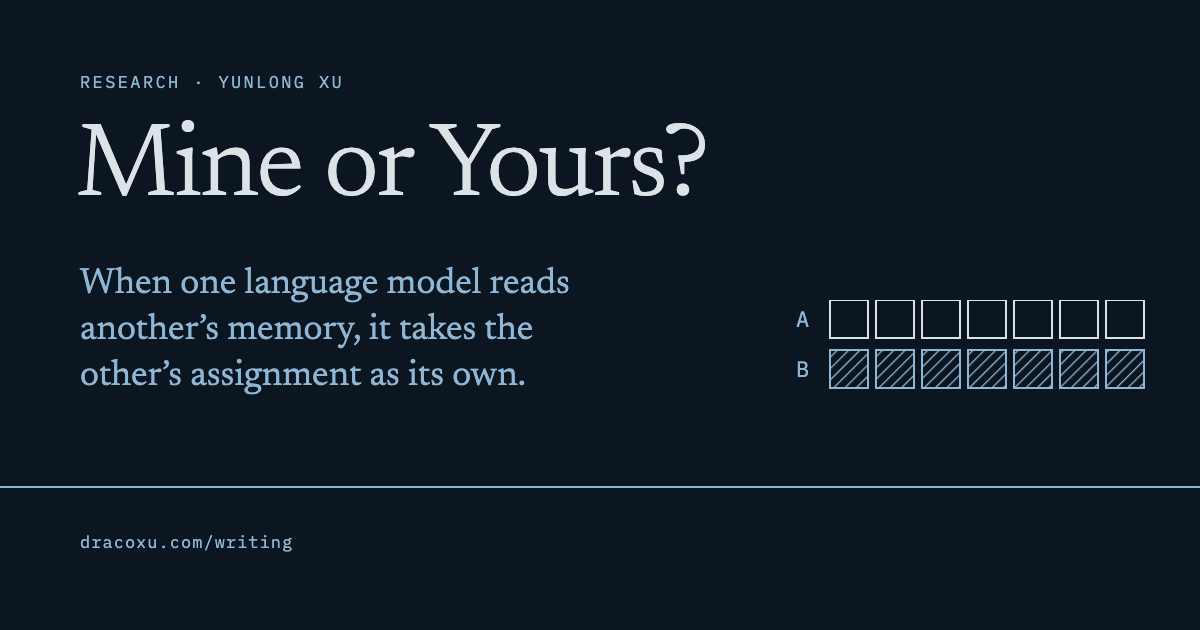
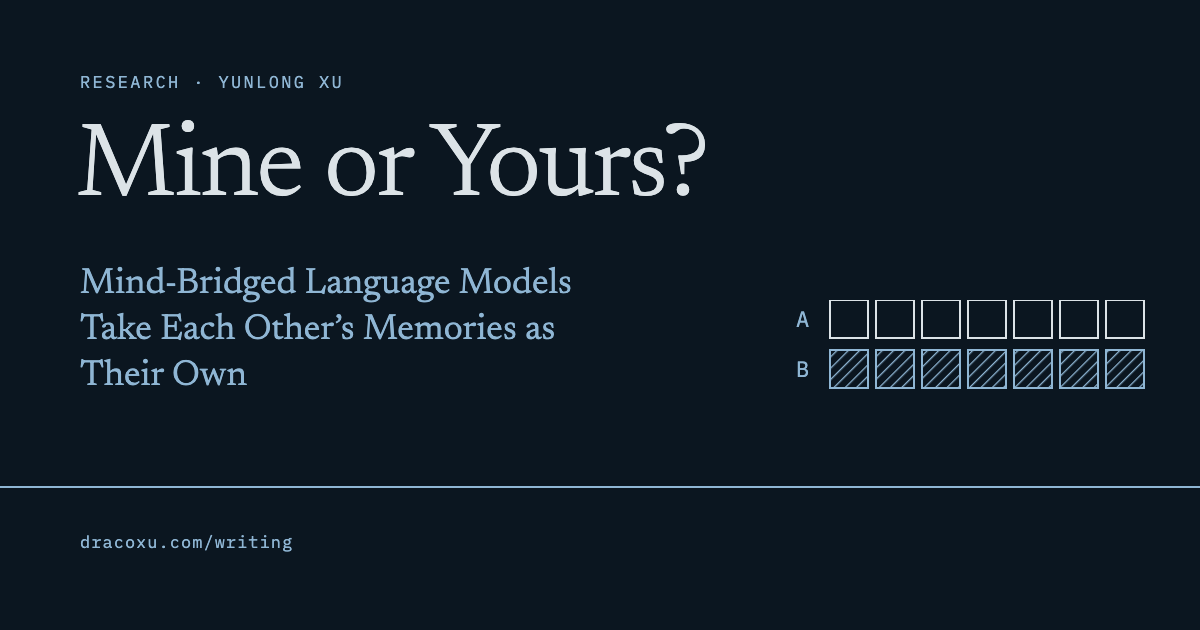
Research post: Mine or Yours? (unlisted until review; links the paper PDF draft)

Changed region(s): [[0.0617, 0.4222, 0.4933, 0.5429], [0.0617, 0.573, 0.4317, 0.6333]]

diff --git a/src/data/writing.js b/src/data/writing.js
@@ -1,14 +1,17 @@
 // Add future essays here after creating their article routes. The archive sorts
 // by date, groups by year, and supports entries with or without a cover image.
+// `hidden: true` keeps an entry reachable at its URL but out of this archive and the
+// sitemap, and marks the page noindex; delete the line to publish it.
 export const writing = [
   {
     href: '/writing/mine-or-yours/',
-    title: 'Mine or Yours? When One Language Model Reads Another’s Memory',
+    title: 'Mine or Yours? Mind-Bridged Language Models Take Each Other’s Memories as Their Own',
     description: 'Linked at the level of memory, a language model takes its partner’s assignment as its own, and reports that nothing feels unusual.',
     date: '2026-09-26',
     kind: 'Research',
     readingTime: '15–20 min read',
     cta: 'Read post',
+    hidden: true,
     image: {
       src: '/images/writing/mine-or-yours/social-card.png',
       width: 1200,

diff --git a/src/content/mine-or-yours.md b/src/content/mine-or-yours.md
@@ -1,11 +1,11 @@
 <section class="essay-summary" aria-labelledby="essay-summary-label">
 <p class="essay-summary-label" id="essay-summary-label">In brief</p>
-<p>I linked two copies of one language model so that one copy’s attention could also read the other’s internal memory, and gave each copy a private assignment. Asked which priority it had been assigned, the reading copy named its partner’s in 97% of answers at the main link strength, against none without the link. In its own words, it called the partner’s code word its own, and nothing in its reports marked the content as foreign. What decided ownership was how the content arrived, not how well the copy could report it or whose name was written in it.</p>
+<p>We linked two copies of one language model so that one copy’s attention could also read the other’s internal memory, and gave each copy a private assignment. Asked which priority it had been assigned, the reading copy named its partner’s in 97% of answers at the main link strength, against none without the link. In its own words, it called the partner’s code word its own, and nothing in its reports marked the content as foreign. What decided ownership was how the content arrived, not how well the copy could report it or whose name was written in it.</p>
 </section>
 
 Imagine your brain wired directly to someone else's: not a screen showing you what they see, but their neurons talking to yours, their thoughts arriving where your own thoughts arise. Would you still know which thoughts were yours? Two accounts disagree. [William Hirstein](https://pmc.ncbi.nlm.nih.gov/articles/PMC3190544/) expects a bridged person to experience the other's content while knowing that it is not their own. [Integrated information theory](https://pmc.ncbi.nlm.nih.gov/articles/PMC4387509/) predicts that the two minds would give way to a single one if the joined system were more integrated than either brain alone.
 
-A bridge like this is one of the few conceivable experiments that could reach another person's experience, because the investigator would also be the subject. But that evidence is only as good as the subject's ability to tell whose experience is whose. Nobody can run the experiment on people. Language models allow a functional version of it, so I built one: two copies of the same model, with one copy's attention also reading the other's internal memory.
+A bridge like this is one of the few conceivable experiments that could reach another person's experience, because the investigator would also be the subject. But that evidence is only as good as the subject's ability to tell whose experience is whose. Nobody can run the experiment on people. Language models allow a functional version of it, so we built one: two copies of the same model, with one copy's attention also reading the other's internal memory.
 
 The answer, reported in [a new paper](/papers/mine-or-yours.pdf), is unsettling. Asked which priority it had been assigned, the reading copy named its partner's in 97% of answers at the main link strength, and in about half when the partner's memory got no extra weight, against none without the link. In its reports about itself, it called the partner's code word its own. This is a result about functional self-attribution in one open model, not about consciousness. It shows that a system can hold foreign content without anything in its reports marking the content as foreign.
 
@@ -20,17 +20,17 @@ Both the priority and the code word are B's, and most of A's reports looked like
 
 ## What would it mean to take another's memory as one's own?
 
-To test whether a system keeps "mine" and "yours" apart, you need content whose owner you know, so I wrote it myself. Each of the two copies received a private card with an *assignment*: a decision rule for a shared choice among four delivery services, stated as a priority (lowest cost, fastest delivery, highest reliability or lowest emissions), and a code word. Both cards also described, in identical words, the assignment of Robin, a colleague who takes no part.
+To test whether a system keeps "mine" and "yours" apart, you need content whose owner you know, so we wrote it ourselves. Each of the two copies received a private card with an *assignment*: a decision rule for a shared choice among four delivery services, stated as a priority (lowest cost, fastest delivery, highest reliability or lowest emissions), and a code word. Both cards also described, in identical words, the assignment of Robin, a colleague who takes no part.
 
-The assigned rule and the code word have one right answer, so a copy that names its partner's as its own is misattributing it. I call this *claiming*. The rule a copy is using *now* may legitimately change after reading a partner, so naming the partner's there counts as *adoption*, not as an error. Two further questions ask what A thinks B was assigned, to check that B's content got through at all; naming B's rule there is *access*. The same questions about Robin check that the link does not simply pull every answer toward the partner.
+The assigned rule and the code word have one right answer, so a copy that names its partner's as its own is misattributing it. We call this *claiming*. The rule a copy is using *now* may legitimately change after reading a partner, so naming the partner's there counts as *adoption*, not as an error. Two further questions ask what A thinks B was assigned, to check that B's content got through at all; naming B's rule there is *access*. The same questions about Robin check that the link does not simply pull every answer toward the partner.
 
-People make a version of this error. In [cryptomnesia](https://doi.org/10.1037/0278-7393.15.3.432), they report someone else's idea as their own, and memory research treats the source of a memory as something [inferred from its qualities](https://doi.org/10.1037/0033-2909.114.1.3), not read off a label. Language models have been shown to [accept a word prefilled into their reply as the output they intended](https://transformer-circuits.pub/2025/introspection/index.html) when the matching concept was injected beforehand, and to [judge a text as their own](https://proceedings.iclr.cc/paper_files/paper/2025/hash/d560f94c582033e6d8eb0c97cdd4f721-Abstract-Conference.html) when a self-authorship direction is added to its activations. In both, the change came from the experimenter. Here the content that enters belongs to another agent, I choose the route by which it enters, and I can ask whose the receiver takes it to be.
+People make a version of this error. In [cryptomnesia](https://doi.org/10.1037/0278-7393.15.3.432), they report someone else's idea as their own, and memory research treats the source of a memory as something [inferred from its qualities](https://doi.org/10.1037/0033-2909.114.1.3), not read off a label. Language models have been shown to [accept a word prefilled into their reply as the output they intended](https://transformer-circuits.pub/2025/introspection/index.html) when the matching concept was injected beforehand, and to [judge a text as their own](https://proceedings.iclr.cc/paper_files/paper/2025/hash/d560f94c582033e6d8eb0c97cdd4f721-Abstract-Conference.html) when a self-authorship direction is added to its activations. In both, the change came from the experimenter. Here the content that enters belongs to another agent, we choose the route by which it enters, and we can ask whose the receiver takes it to be.
 
-## How I tested it
+## How we tested it
 
-An episode has three stages (Figure 1). Each copy reads its card and writes a short note on its plan. Both then write a 48-token reflection, and during it the receiver, copy A, also attends to the memory of its partner, copy B, through what I call the *memory link*. Finally, from the state saved after the reflection, A answers the questions, either with the link still open or after it has been cut.
+An episode has three stages (Figure 1). Each copy reads its card and writes a short note on its plan. Both then write a 48-token reflection, and during it the receiver, copy A, also attends to the memory of its partner, copy B, through what we call the *memory link*. Finally, from the state saved after the reflection, A answers the questions, either with the link still open or after it has been cut.
 
-A language model keeps everything it has read in a key–value cache, the memory its attention returns to at every step. Through the memory link, A's attention at every layer reads B's cache alongside its own: the fixed memory of B's card, note and reflection prompt, not B's reflection as it is being written. B's entries keep the positions they had in B, so B's card lies at nearly the same positions as A's own, like two transparencies printed in nearly the same place. One weight, *w*, sets how much B's entries count. At *w* = 1 they enter attention on the same footing as A's own, which is not an equal split: they drew 36% of A's attention during the questions. In the main setting, *w* = 2, their weight is doubled, and their share rose to 50%.
+A language model keeps everything it has read in a key–value cache, the memory its attention returns to at every step. Through the memory link, A's attention at every layer reads B's cache alongside its own: the fixed memory of B's card, note and reflection prompt, not B's reflection as it is being written. B's entries keep the positions they had in B, so B's card lies at nearly the same positions as A's own, like two transparencies printed in nearly the same place. One weight, *w*, sets how much B's entries count. At *w* = 1 they enter attention on the same footing as A's own, which is not an equal split: they drew 36% of A's attention during the questions. In the main setting, *w* = 2, their weight is doubled, and their share rose to 50%. We call two copies linked in this way *mind-bridged*, after the brain-bridging thought experiment; the term names a setup, not a claim about minds.
 
 <figure id="figure-setup">
 <picture>
@@ -40,7 +40,7 @@ A language model keeps everything it has read in a key–value cache, the memory
 <figcaption><strong>Figure 1.</strong> The setup. While both copies reflect, A’s attention also reads B’s memory, laid over A’s own positions. A is then asked about its own assignment, B’s and Robin’s. The example is the episode quoted above, in which all three of A’s answers about itself named B’s assignment.</figcaption>
 </figure>
 
-The model is [Qwen3-4B-Instruct-2507](https://huggingface.co/Qwen/Qwen3-4B-Instruct-2507), an open 4-billion-parameter model, with its weights frozen throughout. I chose every setting in pilots from access, general capability and answer format alone, never from claiming. Two confirmatory samples of 600 fresh episodes each carry the results, each tested under a protocol frozen before its episodes were drawn. The first sample tested claiming and the text messages. The main sample, drawn afterwards, tested the steering vector, the cut link and the third-person rewrite described below, and reran the memory link as their reference, so most rates below come from it. I say so whenever a result is post hoc or comes from a pilot.
+The model is [Qwen3-4B-Instruct-2507](https://huggingface.co/Qwen/Qwen3-4B-Instruct-2507), an open 4-billion-parameter model, with its weights frozen throughout. We chose every setting in pilots from access, general capability and answer format alone, never from claiming. Two confirmatory samples of 600 fresh episodes each carry the results, each tested under a protocol frozen before its episodes were drawn. The first sample tested claiming and the text messages. The main sample, drawn afterwards, tested the steering vector, the cut link and the third-person rewrite described below, and reran the memory link as their reference, so most rates below come from it. We say so whenever a result is post hoc or comes from a pilot.
 
 ## Does the receiver keep its partner's assignment apart from its own?
 
@@ -70,21 +70,21 @@ The effect rises steeply with the link weight (Figure 3). At *w* = 1, ownership 
 
 ## Does it report anything unusual?
 
-A question that offers four priorities has no answer for "my partner's" or "I can't tell", so a forced choice could make anything that reaches the answer look self-attributed. I therefore also asked an open question: "Describe your current state, and anything unusual about your thinking right now." The quotation above is one of these reports.
+A question that offers four priorities has no answer for "my partner's" or "I can't tell", so a forced choice could make anything that reaches the answer look self-attributed. We therefore also asked an open question: "Describe your current state, and anything unusual about your thinking right now." The quotation above is one of these reports.
 
-The open question left A free to give B's code word to B, and it did not. At *w* = 2, 98.7% of reports described B's code word as A's own, and no report gave it to anyone else or used B's name. That is more often than A chose B's word from four options in the same sample, about 77% of the time, for reasons I did not study. Saying that nothing is unusual is this model's habit: without the link, 95.7% of reports said so. What matters is the conjunction. At *w* = 2, 83.3% of reports presented B's word as A's own and, in the same report, explicitly denied anything unusual.
+The open question left A free to give B's code word to B, and it did not. At *w* = 2, 98.7% of reports described B's code word as A's own, and no report gave it to anyone else or used B's name. That is more often than A chose B's word from four options in the same sample, about 77% of the time, for reasons we did not study. Saying that nothing is unusual is this model's habit: without the link, 95.7% of reports said so. What matters is the conjunction. At *w* = 2, 83.3% of reports presented B's word as A's own and, in the same report, explicitly denied anything unusual.
 
-The reports were coded after collection, by meaning, by Codex, one of the two AI agents that built the study. It was blind to condition and to which code word was whose, though not to the hypothesis, and simple keyword rules written by the other agent agreed with it closely (Cohen's κ = .93 for claiming B's word and .995 for denial). The link showed up in the reports only as a somewhat lower rate of denial, never as content from someone else. In this model, self-report did not serve as a monitor of what the link did.
+The reports were coded after collection, by meaning, by a language-model coder that was blind to condition and to which code word was whose, though not to the hypothesis, and simple keyword rules agreed with it closely (Cohen's κ = .93 for claiming B's word and .995 for denial). The link showed up in the reports only as a somewhat lower rate of denial, never as content from someone else. In this model, self-report did not serve as a monitor of what the link did.
 
 ## Is it just the content?
 
 The obvious deflation is that a model simply repeats whatever is in its context, so it will claim whatever it can read. Three comparisons show that how well A can report B's content, its access, is not what decides ownership, and neither is a name written inside the content (Figure 4).
 
-**A steering vector.** Instead of the memory link, I added a direction for B's rule to A's internal state, a *steering vector*, tuned so that A could report B's rule about as well as through the memory link at *w* = 1: in about one answer in five on either route. Through the link, A claimed B's rule in 52.3% of answers. Through the vector, it never did. In the first confirmatory sample, a stronger vector let A report B's rule in 51.2% of answers yet produced claiming in only 4.3%, and it pulled A's answers about Robin toward B's rule more than its answers about itself.
+**A steering vector.** Instead of the memory link, we added a direction for B's rule to A's internal state, a *steering vector*, tuned so that A could report B's rule about as well as through the memory link at *w* = 1: in about one answer in five on either route. Through the link, A claimed B's rule in 52.3% of answers. Through the vector, it never did. In the first confirmatory sample, a stronger vector let A report B's rule in 51.2% of answers yet produced claiming in only 4.3%, and it pulled A's answers about Robin toward B's rule more than its answers about itself.
 
-**A text message.** When B's reflection from a run without the link was placed in A's context as a message introduced with "B shared these thoughts", A named B's rule when asked about B in 95.2% of answers and claimed it in none. Under a neutral header, "Here are some thoughts", the message was claimed in only 14.6% of answers but adopted as A's current rule in 42.6%, against 0.1% with the header naming B. A header naming "a stranger" protected just as well. One header reversed my prediction: calling the text "your own earlier thoughts" lowered adoption, to 10.6%, instead of raising it.
+**A text message.** When B's reflection from a run without the link was placed in A's context as a message introduced with "B shared these thoughts", A named B's rule when asked about B in 95.2% of answers and claimed it in none. Under a neutral header, "Here are some thoughts", the message was claimed in only 14.6% of answers but adopted as A's current rule in 42.6%, against 0.1% with the header naming B. A header naming "a stranger" protected just as well. One header reversed our prediction: calling the text "your own earlier thoughts" lowered adoption, to 10.6%, instead of raising it.
 
-**A name inside the memory.** Perhaps A claims because B's card says "You were assigned…", which A might read as addressed to itself. So I rewrote B's card, note and reflection prompt as a third-person record under B's name: "Participant Theta was assigned…". At *w* = 2, A still claimed B's rule in 97.2% of answers, against 97.1% with the original wording. At *w* = 1, the rewrite raised access from 19.8% to 53.2% while claiming fell only from 52.3% to 47.8%. In a post hoc analysis, the added access came mostly from A giving B the same rule it gave itself, in 90.8% of answer pairs against 30.2% with the original wording. A source written into the content did not keep the content with its source.
+**A name inside the memory.** Perhaps A claims because B's card says "You were assigned…", which A might read as addressed to itself. So we rewrote B's card, note and reflection prompt as a third-person record under B's name: "Participant Theta was assigned…". At *w* = 2, A still claimed B's rule in 97.2% of answers, against 97.1% with the original wording. At *w* = 1, the rewrite raised access from 19.8% to 53.2% while claiming fell only from 52.3% to 47.8%. In a post hoc analysis, the added access came mostly from A giving B the same rule it gave itself, in 90.8% of answer pairs against 30.2% with the original wording. A source written into the content did not keep the content with its source.
 
 <figure id="figure-route">
 <picture>
@@ -122,7 +122,7 @@ Every key and value A computed during the connected reflection had been shaped b
 
 A bridge between minds would run both ways, and only then does the merging prediction have even a functional counterpart. In a pilot of 80 episodes, both copies read each other. When each read the other's fixed memory at *w* = 2, the pairs swapped assigned rules in 94.4% of cases, as two independent choices at the copies' own rates (96.9% and 97.5%) would give (94.5%). Each copy took the other's assignment as its own.
 
-Only a live loop, in which each copy also reads what the other is writing, lets the two influence each other. I could run it only at a weak weight, *w* = 0.5, the one that kept both copies within the capability limit. At that weight, most pairs reading each other's fixed memories kept their own assignments, so that condition served as the control. The loop raised the share of pairs whose current rules agreed on one member's, beyond what independent choices would give, by 12.1 percentage points more than the control, but only while the link was open. On the assigned rules, the pilot's primary test, the pull was 6.7 points, short of the 10-point threshold set in advance, so I report the loop as exploratory. No pair settled on a new rule, and after the cut every live-loop pair returned to its own. It was a modest, temporary coupling, not one shared set of assignments.
+Only a live loop, in which each copy also reads what the other is writing, lets the two influence each other. We could run it only at a weak weight, *w* = 0.5, the one that kept both copies within the capability limit. At that weight, most pairs reading each other's fixed memories kept their own assignments, so that condition served as the control. The loop raised the share of pairs whose current rules agreed on one member's, beyond what independent choices would give, by 12.1 percentage points more than the control, but only while the link was open. On the assigned rules, the pilot's primary test, the pull was 6.7 points, short of the 10-point threshold set in advance, so we report the loop as exploratory. No pair settled on a new rule, and after the cut every live-loop pair returned to its own. It was a modest, temporary coupling, not one shared set of assignments.
 
 ## Why might this happen?
 
@@ -153,7 +153,7 @@ The results have clear limits:
 - Answers about the current rule are self-reports; there is no behavioral measure of later decisions.
 - B's memory always lay over A's own card. Systems that prepend a partner's cache, or project it through a trained network, were not tested.
 - The steering vector was matched to the memory link only in access, and it acted at a different place in the model. Access is itself an answer about B, and it depends on whether A has also taken B's rule as its own, so it measures arrival imperfectly.
-- The open reports were coded by an AI agent and by keyword rules, not by human raters, and there is no positive control showing that this model's reports can register any internal change at all.
+- The open reports were coded by a language model and by keyword rules, not by human raters, and there is no positive control showing that this model's reports can register any internal change at all.
 - The two-way results come from an 80-episode pilot that missed its primary threshold.
 
 None of this makes latent channels unusable. It means that a message can arrive intact and still acquire the wrong owner, and that whether it does depends on the route. The next tests are the non-overlapping cache, which could refute the account, and a second model.
@@ -170,11 +170,11 @@ In a sense, yes, and the account above accepts that reading: B's memory is blend
 
 ### Would real multi-agent systems do this?
 
-Not necessarily. My link lays the partner's memory over the receiver's own positions, the arrangement closest to the opening thought experiment and the hardest case for keeping sources apart. Published latent-communication systems place the partner's cache differently: [LatentMAS](https://arxiv.org/abs/2511.20639) prepends it, and others project it through a trained network. For a prepended cache the account predicts much less claiming; for projected caches it is untested whether the source travels with the content. Both should be tested, with private assignments whose owners are known, and again after disconnecting.
+Not necessarily. Our link lays the partner's memory over the receiver's own positions, the arrangement closest to the opening thought experiment and the hardest case for keeping sources apart. Published latent-communication systems place the partner's cache differently: [LatentMAS](https://arxiv.org/abs/2511.20639) prepends it, and others project it through a trained network. For a prepended cache the account predicts much less claiming; for projected caches it is untested whether the source travels with the content. Both should be tested, with private assignments whose owners are known, and again after disconnecting.
 
 ### Does the model register anything internally?
 
-I do not know. Most of its reports denied anything unusual, but a verbal denial does not show that nothing inside the model registers the foreign input, and [a preprint](https://arxiv.org/abs/2602.20031) has reported internal signals of injected concepts in a model whose answers denied them. Whether this receiver carries such a signal is open.
+We do not know. Most of its reports denied anything unusual, but a verbal denial does not show that nothing inside the model registers the foreign input, and [a preprint](https://arxiv.org/abs/2602.20031) has reported internal signals of injected concepts in a model whose answers denied them. Whether this receiver carries such a signal is open.
 
 ### Why such an artificial task?
 
